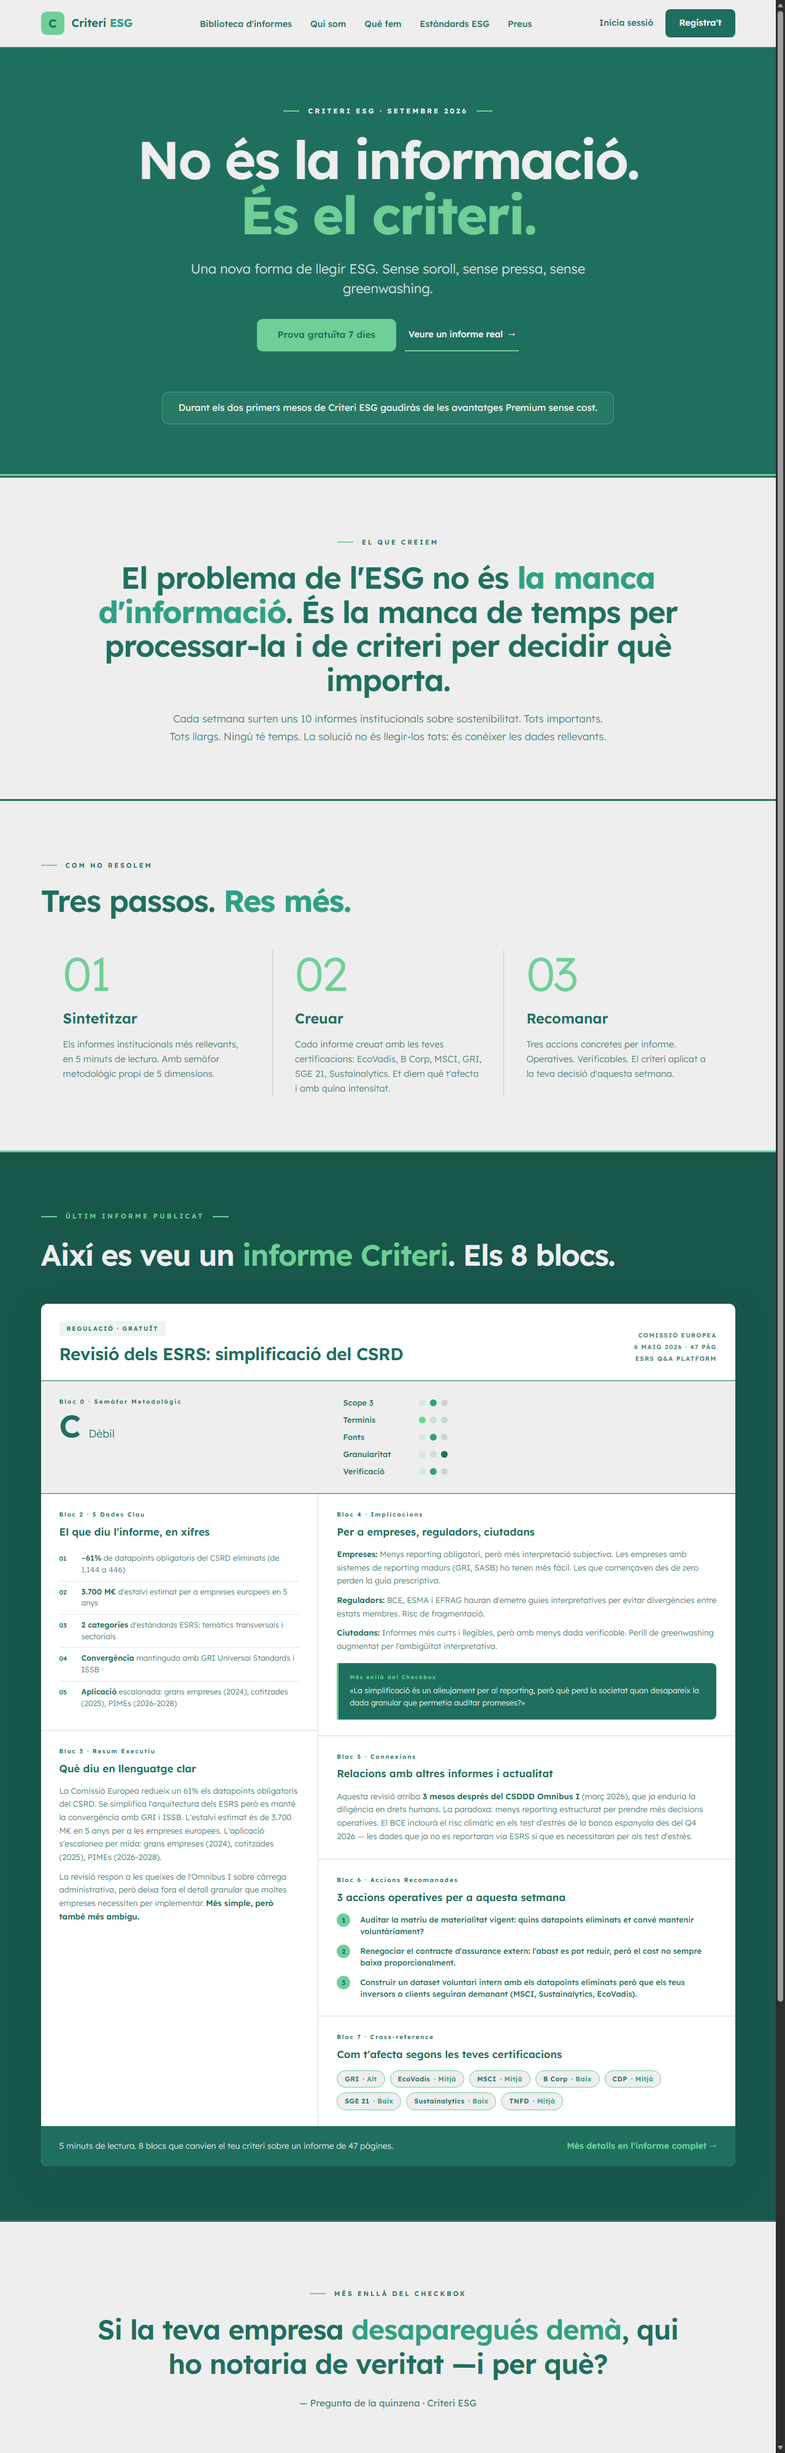
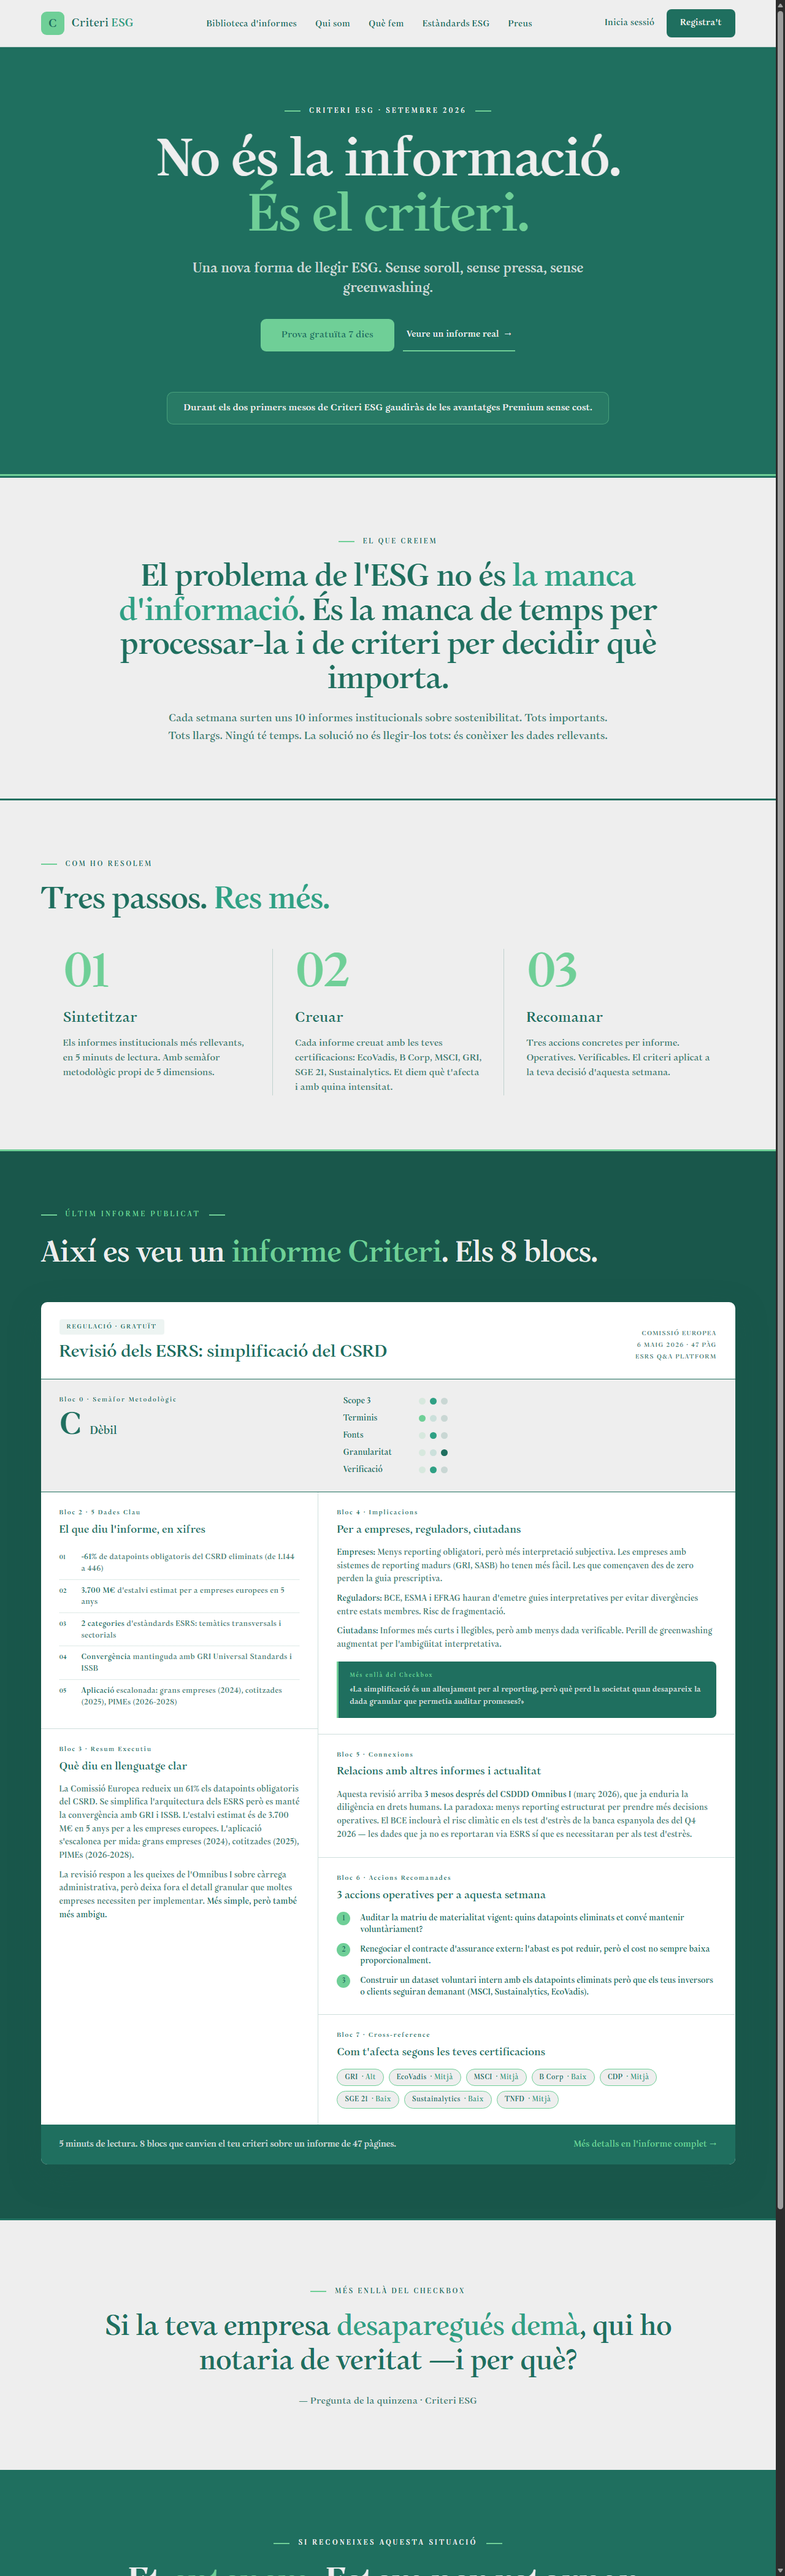
feat: canviar tipografia del mockup homepage a Monomakh (Google Fonts) amb pesos normalitzats a 400

diff --git a/assets/redisseny-web/mockup-homepage-paleta-verda.html b/assets/redisseny-web/mockup-homepage-paleta-verda.html
@@ -3,10 +3,10 @@
 <head>
 <meta charset="UTF-8">
 <meta name="viewport" content="width=device-width, initial-scale=1.0">
-<title>Mockup · Homepage Criteri ESG — Paleta verda · Lexend Deca</title>
+<title>Mockup · Homepage Criteri ESG — Paleta verda · Monomakh</title>
 <link rel="preconnect" href="https://fonts.googleapis.com">
 <link rel="preconnect" href="https://fonts.gstatic.com" crossorigin>
-<link href="https://fonts.googleapis.com/css2?family=Lexend+Deca:wght@300;400;500;600;700&display=swap" rel="stylesheet">
+<link href="https://fonts.googleapis.com/css2?family=Monomakh&display=swap" rel="stylesheet">
 <style>
   /* ============ TOKENS ============ */
   :root {
@@ -19,7 +19,7 @@
     --ink-deep: #19574B;     /* derivat: seccions fosques / footer */
     --line: rgba(31, 111, 95, 0.22);
     --radius: 10px;
-    --font: "Lexend Deca", system-ui, -apple-system, sans-serif;
+    --font: "Monomakh", system-ui, -apple-system, sans-serif;
   }
 
   * { margin: 0; padding: 0; box-sizing: border-box; }
@@ -49,22 +49,22 @@
     width: 38px; height: 38px; border-radius: 9px;
     background: var(--highlight);
     display: grid; place-items: center;
-    font-weight: 700; font-size: 19px; color: var(--ink);
+    font-weight: 400; font-size: 19px; color: var(--ink);
     letter-spacing: -0.02em;
   }
-  .brand-name { font-weight: 600; font-size: 1.15rem; color: var(--ink); letter-spacing: -0.01em; }
-  .brand-name em { font-style: normal; color: var(--accent); font-weight: 700; }
+  .brand-name { font-weight: 400; font-size: 1.15rem; color: var(--ink); letter-spacing: -0.01em; }
+  .brand-name em { font-style: normal; color: var(--accent); }
   .nav-links { display: flex; gap: 30px; list-style: none; }
   .nav-links a {
-    color: var(--ink); text-decoration: none; font-size: 0.9rem; font-weight: 500;
+    color: var(--ink); text-decoration: none; font-size: 0.9rem; font-weight: 400;
     padding: 6px 0; border-bottom: 2px solid transparent; transition: border-color .15s;
   }
   .nav-links a:hover { border-color: var(--highlight); }
   .nav-actions { display: flex; align-items: center; gap: 20px; }
-  .nav-actions .login { color: var(--ink); text-decoration: none; font-size: 0.9rem; font-weight: 500; }
+  .nav-actions .login { color: var(--ink); text-decoration: none; font-size: 0.9rem; font-weight: 400; }
   .btn {
     display: inline-flex; align-items: center; justify-content: center; gap: 8px;
-    font-family: var(--font); font-weight: 600; font-size: 0.9rem;
+    font-family: var(--font); font-weight: 400; font-size: 0.9rem;
     border: none; cursor: pointer; text-decoration: none;
     transition: transform .12s ease, opacity .15s;
   }
@@ -89,23 +89,23 @@
   .hero .wrap { display: flex; flex-direction: column; align-items: center; gap: 26px; }
   .eyebrow {
     display: inline-flex; align-items: center; gap: 14px;
-    font-size: 0.7rem; font-weight: 600; letter-spacing: 0.28em; text-transform: uppercase;
+    font-size: 0.7rem; font-weight: 400; letter-spacing: 0.28em; text-transform: uppercase;
     color: var(--bg);
   }
   .eyebrow::before, .eyebrow::after { content: ""; width: 26px; height: 2px; background: var(--highlight); }
   .hero h1 {
     font-size: clamp(2.6rem, 7.2vw, 5.4rem);
-    font-weight: 600; letter-spacing: -0.03em; line-height: 1.04;
+    font-weight: 400; letter-spacing: -0.03em; line-height: 1.04;
     max-width: 900px;
   }
-  .hero h1 .hl { color: var(--highlight); font-weight: 700; }
+  .hero h1 .hl { color: var(--highlight); }
   .hero .sub {
-    font-size: clamp(1.05rem, 1.9vw, 1.35rem); font-weight: 300;
+    font-size: clamp(1.05rem, 1.9vw, 1.35rem); font-weight: 400;
     color: rgba(238, 238, 238, 0.85); max-width: 680px;
   }
   .hero .cta-row { display: flex; flex-wrap: wrap; justify-content: center; gap: 14px; margin-top: 8px; }
   .hero .btn-light { background: var(--highlight); color: var(--ink); padding: 15px 34px; border-radius: 9px; font-size: 0.95rem; }
-  .hero .btn-line { background: transparent; color: var(--bg); padding: 14px 6px; border-bottom: 2px solid var(--highlight); border-radius: 0; font-weight: 500; }
+  .hero .btn-line { background: transparent; color: var(--bg); padding: 14px 6px; border-bottom: 2px solid var(--highlight); border-radius: 0; font-weight: 400; }
   .banner {
     margin-top: 40px; padding: 14px 26px;
     background: rgba(111, 207, 151, 0.12);
@@ -121,17 +121,17 @@
 
   .eyebrow-dark {
     display: inline-flex; align-items: center; gap: 14px;
-    font-size: 0.68rem; font-weight: 600; letter-spacing: 0.26em; text-transform: uppercase;
+    font-size: 0.68rem; font-weight: 400; letter-spacing: 0.26em; text-transform: uppercase;
     color: var(--ink); margin-bottom: 22px;
   }
   .eyebrow-dark::before { content: ""; width: 26px; height: 2px; background: var(--highlight); }
 
   h2.sec-title {
-    font-size: clamp(1.9rem, 4vw, 3.1rem); font-weight: 600;
+    font-size: clamp(1.9rem, 4vw, 3.1rem); font-weight: 400;
     letter-spacing: -0.025em; line-height: 1.12;
   }
-  h2.sec-title .hl { color: var(--accent); font-weight: 700; }
-  .sec-body { max-width: 720px; font-weight: 300; font-size: 1.05rem; color: var(--ink-soft); line-height: 1.7; margin-top: 22px; }
+  h2.sec-title .hl { color: var(--accent); }
+  .sec-body { max-width: 720px; font-weight: 400; font-size: 1.05rem; color: var(--ink-soft); line-height: 1.7; margin-top: 22px; }
 
   /* Manifest centrat */
   .manifest { text-align: center; }
@@ -147,11 +147,11 @@
   .thesis { padding: 0 36px; }
   .thesis + .thesis { border-left: 1px solid var(--line); }
   .thesis .num {
-    font-size: clamp(3.4rem, 6vw, 4.8rem); font-weight: 300;
+    font-size: clamp(3.4rem, 6vw, 4.8rem); font-weight: 400;
     color: var(--highlight); line-height: 1; letter-spacing: -0.04em;
   }
-  .thesis h3 { font-size: 1.45rem; font-weight: 600; margin: 18px 0 12px; color: var(--ink); }
-  .thesis p { font-size: 0.92rem; font-weight: 300; color: var(--ink-soft); line-height: 1.65; }
+  .thesis h3 { font-size: 1.45rem; font-weight: 400; margin: 18px 0 12px; color: var(--ink); }
+  .thesis p { font-size: 0.92rem; font-weight: 400; color: var(--ink-soft); line-height: 1.65; }
 
   /* ============ INFORME DESTACAT ============ */
   .informe {
@@ -160,7 +160,7 @@
     padding: 88px 0;
   }
   .informe .eyebrow { color: var(--highlight); }
-  .informe h2 { font-size: clamp(1.9rem, 4vw, 3rem); font-weight: 600; letter-spacing: -0.025em; margin-top: 18px; }
+  .informe h2 { font-size: clamp(1.9rem, 4vw, 3rem); font-weight: 400; letter-spacing: -0.025em; margin-top: 18px; }
   .informe h2 .hl { color: var(--highlight); }
 
   .paper {
@@ -176,12 +176,12 @@
     padding: 26px 30px; border-bottom: 1px solid var(--ink);
   }
   .tag {
-    display: inline-block; font-size: 0.62rem; font-weight: 600; letter-spacing: 0.18em; text-transform: uppercase;
+    display: inline-block; font-size: 0.62rem; font-weight: 400; letter-spacing: 0.18em; text-transform: uppercase;
     color: var(--ink); background: rgba(31, 111, 95, 0.08);
     padding: 5px 12px; border-radius: 4px; margin-bottom: 12px;
   }
-  .paper-head h3 { font-size: clamp(1.3rem, 2.4vw, 1.75rem); font-weight: 600; letter-spacing: -0.015em; line-height: 1.2; }
-  .paper-meta { text-align: right; font-size: 0.62rem; font-weight: 600; letter-spacing: 0.14em; text-transform: uppercase; color: var(--ink-soft); line-height: 1.9; }
+  .paper-head h3 { font-size: clamp(1.3rem, 2.4vw, 1.75rem); font-weight: 400; letter-spacing: -0.015em; line-height: 1.2; }
+  .paper-meta { text-align: right; font-size: 0.62rem; font-weight: 400; letter-spacing: 0.14em; text-transform: uppercase; color: var(--ink-soft); line-height: 1.9; }
 
   .semafor {
     background: var(--bg); color: var(--ink);
@@ -189,13 +189,13 @@
     padding: 26px 30px;
     border-bottom: 1px solid var(--ink);
   }
-  .semafor .label { font-size: 0.6rem; font-weight: 600; letter-spacing: 0.22em; color: var(--ink); }
+  .semafor .label { font-size: 0.6rem; font-weight: 400; letter-spacing: 0.22em; color: var(--ink); }
   .semafor .grade-row { display: flex; align-items: baseline; gap: 14px; margin-top: 8px; }
-  .semafor .grade { font-size: 3.2rem; font-weight: 600; color: var(--ink); line-height: 1; letter-spacing: -0.03em; }
-  .semafor .grade-label { font-size: 1.1rem; font-weight: 300; color: var(--ink); }
+  .semafor .grade { font-size: 3.2rem; font-weight: 400; color: var(--ink); line-height: 1; letter-spacing: -0.03em; }
+  .semafor .grade-label { font-size: 1.1rem; font-weight: 400; color: var(--ink); }
   .dims { display: flex; flex-direction: column; gap: 9px; }
   .dim { display: grid; grid-template-columns: 110px 1fr; align-items: center; gap: 14px; }
-  .dim .dname { font-size: 0.8rem; font-weight: 500; }
+  .dim .dname { font-size: 0.8rem; font-weight: 400; }
   .dots { display: flex; gap: 7px; }
   .dot { width: 11px; height: 11px; border-radius: 50%; }
   .dot.g { background: var(--highlight); }
@@ -207,57 +207,57 @@
   .col-left { border-right: 1px solid var(--line); }
   .bloc { padding: 26px 30px; border-bottom: 1px solid var(--line); }
   .bloc:last-child { border-bottom: none; }
-  .bloc-num { font-size: 0.6rem; font-weight: 600; letter-spacing: 0.2em; color: var(--ink); }
-  .bloc h4 { font-size: 1.05rem; font-weight: 600; margin: 8px 0 14px; color: var(--ink); }
-  .bloc p { font-size: 0.82rem; font-weight: 300; color: var(--ink-soft); line-height: 1.65; }
+  .bloc-num { font-size: 0.6rem; font-weight: 400; letter-spacing: 0.2em; color: var(--ink); }
+  .bloc h4 { font-size: 1.05rem; font-weight: 400; margin: 8px 0 14px; color: var(--ink); }
+  .bloc p { font-size: 0.82rem; font-weight: 400; color: var(--ink-soft); line-height: 1.65; }
   .bloc p + p { margin-top: 10px; }
-  .bloc p strong { color: var(--ink); font-weight: 600; }
+  .bloc p strong { color: var(--ink); font-weight: 400; }
 
   .dades { display: flex; flex-direction: column; }
   .dada { display: grid; grid-template-columns: 26px 1fr; gap: 10px; padding: 8px 0; border-bottom: 1px dotted rgba(62, 131, 116, 0.35); align-items: baseline; }
   .dada:last-child { border-bottom: none; }
-  .dada .n { font-size: 0.62rem; font-weight: 600; color: var(--ink); }
-  .dada .t { font-size: 0.78rem; font-weight: 300; color: var(--ink-soft); }
-  .dada .t strong { color: var(--ink); font-weight: 600; }
+  .dada .n { font-size: 0.62rem; font-weight: 400; color: var(--ink); }
+  .dada .t { font-size: 0.78rem; font-weight: 400; color: var(--ink-soft); }
+  .dada .t strong { color: var(--ink); font-weight: 400; }
 
   .quote-box {
     margin-top: 16px; padding: 16px 18px;
     background: var(--ink); color: var(--bg); border-left: 3px solid var(--highlight); border-radius: 0 8px 8px 0;
   }
-  .quote-box .qlabel { font-size: 0.55rem; font-weight: 600; letter-spacing: 0.2em; color: var(--highlight); margin-bottom: 6px; }
-  .quote-box p { font-size: 0.78rem; font-weight: 300; color: rgba(238,238,238,.9); font-style: normal; }
+  .quote-box .qlabel { font-size: 0.55rem; font-weight: 400; letter-spacing: 0.2em; color: var(--highlight); margin-bottom: 6px; }
+  .quote-box p { font-size: 0.78rem; font-weight: 400; color: rgba(238,238,238,.9); font-style: normal; }
 
   .accions { display: flex; flex-direction: column; gap: 12px; }
   .accio { display: grid; grid-template-columns: 26px 1fr; gap: 12px; align-items: baseline; }
   .accio .cnum {
     width: 22px; height: 22px; border-radius: 50%;
     background: var(--highlight); color: var(--ink);
-    font-size: 0.68rem; font-weight: 700;
+    font-size: 0.68rem;
     display: grid; place-items: center;
   }
-  .accio .t { font-size: 0.8rem; font-weight: 500; color: var(--ink); line-height: 1.5; }
+  .accio .t { font-size: 0.8rem; font-weight: 400; color: var(--ink); line-height: 1.5; }
 
   .chips { display: flex; flex-wrap: wrap; gap: 8px; }
   .chip {
-    font-size: 0.68rem; font-weight: 600; letter-spacing: 0.04em;
+    font-size: 0.68rem; font-weight: 400; letter-spacing: 0.04em;
     background: var(--bg); border: 1px solid var(--highlight); color: var(--ink);
     padding: 5px 12px; border-radius: 20px;
   }
-  .chip span { color: var(--accent); font-weight: 600; margin-left: 6px; }
+  .chip span { color: var(--accent); font-weight: 400; margin-left: 6px; }
 
   .paper-foot {
     background: var(--ink); color: var(--bg);
     display: flex; align-items: center; justify-content: space-between; gap: 20px;
     padding: 22px 30px;
   }
-  .paper-foot p { font-size: 0.85rem; font-weight: 300; color: rgba(238,238,238,.85); }
-  .paper-foot a { color: var(--highlight); font-weight: 600; font-size: 0.88rem; text-decoration: none; white-space: nowrap; }
+  .paper-foot p { font-size: 0.85rem; font-weight: 400; color: rgba(238,238,238,.85); }
+  .paper-foot a { color: var(--highlight); font-weight: 400; font-size: 0.88rem; text-decoration: none; white-space: nowrap; }
   .paper-foot a:hover { text-decoration: underline; }
 
   /* ============ CITA ============ */
   .cita { text-align: center; background: var(--bg); border-top: 3px solid var(--ink); padding: 100px 24px; }
   .cita blockquote {
-    font-size: clamp(1.7rem, 3.6vw, 2.8rem); font-weight: 600;
+    font-size: clamp(1.7rem, 3.6vw, 2.8rem); font-weight: 400;
     letter-spacing: -0.02em; line-height: 1.25; max-width: 950px; margin: 0 auto;
     color: var(--ink);
   }
@@ -267,22 +267,22 @@
   /* ============ CTA FINAL ============ */
   .cta-final { background: var(--ink); color: var(--bg); text-align: center; padding: 104px 24px; }
   .cta-final .eyebrow { justify-content: center; }
-  .cta-final h2 { font-size: clamp(2rem, 4.6vw, 3.6rem); font-weight: 600; letter-spacing: -0.025em; line-height: 1.1; max-width: 850px; margin: 24px auto 8px; }
+  .cta-final h2 { font-size: clamp(2rem, 4.6vw, 3.6rem); font-weight: 400; letter-spacing: -0.025em; line-height: 1.1; max-width: 850px; margin: 24px auto 8px; }
   .cta-final h2 .hl { color: var(--highlight); }
   .cta-final .btn-bright { margin-top: 30px; }
-  .cta-final .note { margin-top: 18px; font-size: 0.9rem; font-weight: 300; color: rgba(238,238,238,.65); }
+  .cta-final .note { margin-top: 18px; font-size: 0.9rem; font-weight: 400; color: rgba(238,238,238,.65); }
 
   /* ============ FOOTER ============ */
   footer.site { background: var(--ink-deep); color: var(--bg); padding: 56px 0 40px; }
   .foot-grid { display: grid; grid-template-columns: 1.4fr 1fr 1fr; gap: 40px; }
   .foot-brand { display: flex; align-items: center; gap: 12px; margin-bottom: 14px; }
   .foot-brand .brand-mark { background: var(--highlight); color: var(--ink); }
-  footer p.desc { font-size: 0.85rem; font-weight: 300; color: rgba(238,238,238,.7); max-width: 300px; }
-  .foot-col h5 { font-size: 0.7rem; font-weight: 600; letter-spacing: 0.2em; text-transform: uppercase; color: var(--highlight); margin-bottom: 16px; }
+  footer p.desc { font-size: 0.85rem; font-weight: 400; color: rgba(238,238,238,.7); max-width: 300px; }
+  .foot-col h5 { font-size: 0.7rem; font-weight: 400; letter-spacing: 0.2em; text-transform: uppercase; color: var(--highlight); margin-bottom: 16px; }
   .foot-col ul { list-style: none; display: flex; flex-direction: column; gap: 10px; }
-  .foot-col a { color: rgba(238,238,238,.85); text-decoration: none; font-size: 0.88rem; font-weight: 300; }
+  .foot-col a { color: rgba(238,238,238,.85); text-decoration: none; font-size: 0.88rem; font-weight: 400; }
   .foot-col a:hover { color: var(--highlight); }
-  .foot-bottom { margin-top: 44px; padding-top: 22px; border-top: 1px solid rgba(238,238,238,.15); display: flex; justify-content: space-between; font-size: 0.75rem; font-weight: 300; color: rgba(238,238,238,.55); }
+  .foot-bottom { margin-top: 44px; padding-top: 22px; border-top: 1px solid rgba(238,238,238,.15); display: flex; justify-content: space-between; font-size: 0.75rem; font-weight: 400; color: rgba(238,238,238,.55); }
 
   /* ============ RESPONSIVE ============ */
   @media (max-width: 900px) {
